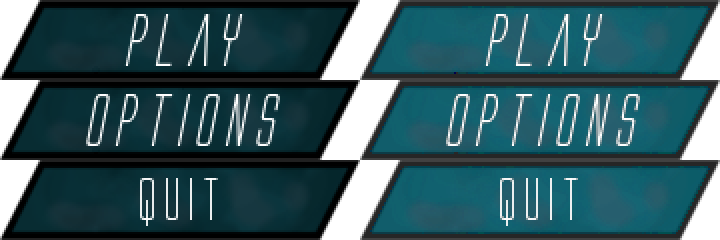
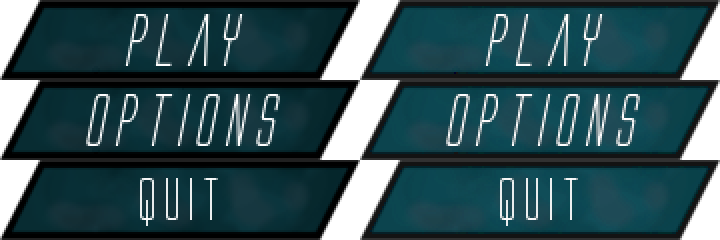
Updated how buttons update

Changed region(s): [[0.5194, 0.6708, 1.0, 0.9917], [0.5194, 0.0, 1.0, 0.3208], [0.4889, 0.35, 1.0, 0.6417]]

diff --git a/source/menu.py b/source/menu.py
@@ -30,6 +30,19 @@ class Button(pygame.sprite.Sprite):
         self.rect.x = x
         self.rect.y = y
 
+    def update(self):
+
+        mouse_pos = pygame.mouse.get_pos()
+
+        touching_pointer = self.rect.collidepoint(mouse_pos)
+
+        if touching_pointer:
+            if self.image != self.image_active:
+                self.image = self.image_active
+        else:
+            if self.image != self.image_inactive:
+                self.image = self.image_inactive
+
 
 class Text(pygame.sprite.Sprite):
 
@@ -73,6 +86,8 @@ class Menu:
             for event in pygame.event.get():
                 if event.type == QUIT:
                     game_exit = True
+
+            self.main_menu.update()
 
             self.display.fill(constants.BLACK)
             self.display.blit(self.background, (0, 0))
